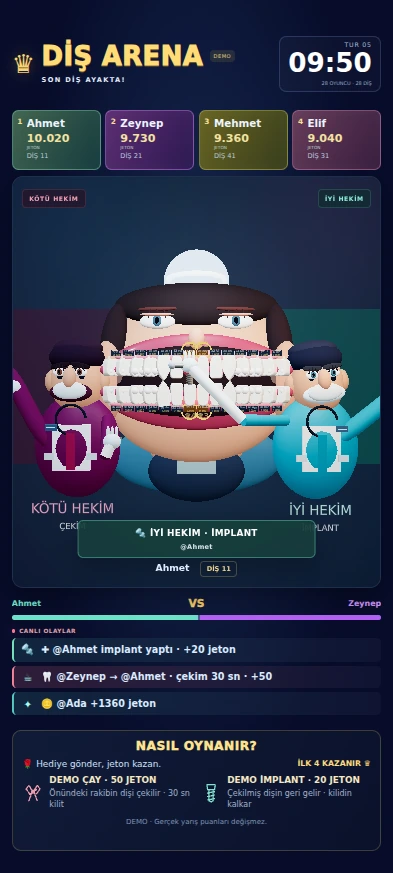
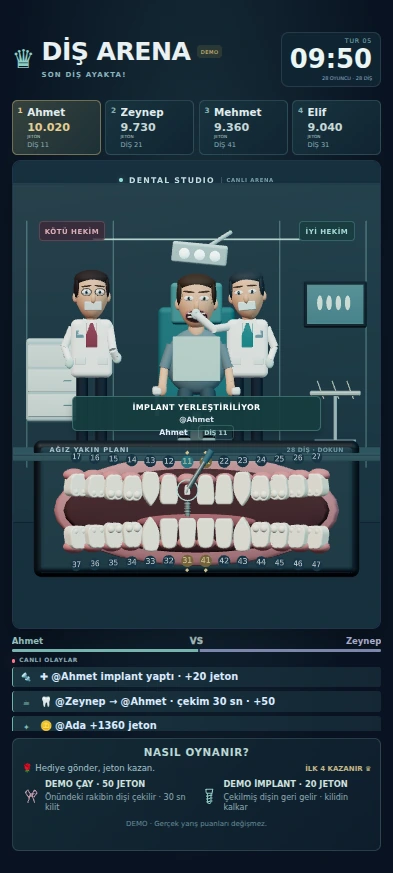
Save the redesigned clinic screenshots and visual acceptance evidence

diff --git a/docs/ACCEPTANCE.md b/docs/ACCEPTANCE.md
@@ -10,7 +10,7 @@
 - Node tek otoritedir. SQLite transaction olay, seri ilerlemesi ve tur durumunu birlikte saklar; tarayıcı render'ı puan yazamaz. Kalıcı idempotency 10.000 sınırıyla kırpılmaz. Canlı/demo veritabanları ayrıdır.
 - Python kalıcı outbox ve ACK/retry, kullanıcı adı kontrolü, sağlayıcı kimliklerinin korunması, katalog aktarımı ve backoff/jitter korunmuştur. Eksik katalog/seri kimliğinde puan uydurulmaz. Gerçek katalogdaki eşleştirilmiş ad izleyicide gösterilir; doğrulanmayan eşleme açıkça bekleniyor görünür.
 - Üst dört lider, gerçek FDI diş numaraları, sayaç/tur, lider değişimi, rekabet ve üç satırlık canlı olay akışı vardır. Sağdaki boş sıralama paneli kaldırıldı. OBS üst/alt TikTok güvenli alanları CSS değişkenleriyle ayarlanır.
-- Aynı prosedürel 3D sahnede dört ayrı taç geometrisi, daha büyük hekimler, küçültülmüş kafa, düzeltilmiş burun/yüz, ağız dışına taşınmış FDI etiketleri; eklemli kol, hedefe uzanan alet, diş çekimi/boşluk, implant vidası/restorasyon ve yüz tepkileri vardır. Puanlar anlık, görseller ayrı sınırlı kuyruktadır; taşma puanı silmez.
+- Reddedilen maskot görünümü yeni klinik dioramasıyla değiştirildi: normal oranlı hasta/koltuk, ayakta iki hekim, ekipman ve optik ağız yakın planı. Aynı 28 diş durumu ve hedef hem hastanın ağzında hem büyütülmüş görünümde kullanılır. Eklemli kol, çekim/boşluk, implant/restorasyon ve yüz tepkileri korunur; dişe dokununca oyuncu kartı açılır. Puanlar anlık, görseller ayrı sınırlı kuyruktadır; taşma puanı silmez.
 - Native tam ekran ve panele dönüş aynı round ID, başlangıç zamanı ve oyuncuları korur. Grafik tercihi ayrı demo/canlı kaynakta sunucuda tutulur.
 - Termux tek komut başlatıcı mevcut veriyi korur; demo Python olmadan açılır. Konsol yoğun hediyeleri gruplar. Yedekleme `access.sqlite` şifre özetlerini de kapsar.
 
@@ -18,26 +18,26 @@
 
 | Kontrol | Gerçek sonuç |
 |---|---|
-| `npm test` | 63 geçti; motor, seri, SQLite yeniden açma/idempotency, eşzamanlı HTTP, auth, yetki ayrımı, demo/launcher ve geometri matematiği |
+| `npm test` | 64 geçti; motor, seri, SQLite yeniden açma/idempotency, eşzamanlı HTTP, auth, yetki ayrımı, demo/launcher ve geometri matematiği |
 | `npm run test:python` | TikTokLive 7.0.1 bağımlılıklarıyla 10 geçti |
 | `npm run test:provider` | 1 geçti; gerçek protobuf sınıfıyla sentetik 1000 seri artışı → Python → SQLite =1000; replay +0 |
 | `npm run build` | TypeScript/Vite geçti; yaklaşık 1,27 MB JS paket boyutu uyarısı sürüyor |
-| Chromium Playwright | Son uygulama kaynağı `70c13d4` üzerinde 6 kabul testi geçti |
+| Chromium Playwright | Son uygulama kaynağı `81bcea2` üzerinde 6 kabul testi geçti |
 | `git diff --check` | Temiz |
 
 Gerçek GitHub Actions Chromium/SwiftShader testleri: 360×800, 393×873, 1080×1920 OBS, 1280×1000 masaüstü; WebGL FPS>0, tarayıcı hatası olmaması ve taşma kontrolü; şifreli mobil yönetim/çıkış; çekim→implant→demo çürütme→iyileştirme; tam ekran gir/çık sırasında turun korunması; oda şifresinin admin yetkisi vermemesi. Her prosedürde hedef Ahmet / FDI 11 kontrol edilip 3D işlem sırasında ekran görüntüsü alınır.
 
-`70c13d441376b1ebec4fd6376f8f03548f2b1b64` üzerinde üç iş akışı başarılı:
+`81bcea2f10a52fb8b12def90763172464d8f531d` üzerinde üç iş akışı başarılı:
 
-- [Diş Arena CI](https://github.com/dentalaidestek/dis-arena-live-/actions/runs/43736281416)
-- [Verify Diş Arena](https://github.com/dentalaidestek/dis-arena-live-/actions/runs/43736281524)
-- [Arena visual acceptance](https://github.com/dentalaidestek/dis-arena-live-/actions/runs/43736281393)
+- [Diş Arena CI](https://github.com/dentalaidestek/dis-arena-live-/actions/runs/43740889063)
+- [Verify Diş Arena](https://github.com/dentalaidestek/dis-arena-live-/actions/runs/43740889040)
+- [Arena visual acceptance](https://github.com/dentalaidestek/dis-arena-live-/actions/runs/43740889022)
 
-Son tarayıcı testi Gül ×1000, +100 hediye, dört dondurulan kazanan ve temiz yeni turu da doğrular. PNG asılları artifact `14170930160` içinde, kalıcı WebP kopyaları [screenshots](screenshots/) altında ve [teslim kaydında](DELIVERY.md) bulunur. Bu gerçek tarayıcı doğrulamasıdır; mobil emülasyonu gerçek Android GPU testi değildir. Görseller açılarak incelendi; gözlerin ağız arkasında kalması ve acı ifadesinde kaşın yerinden çıkması düzeltilip yeniden yakalandı.
+Son tarayıcı testi Gül ×1000, +100 hediye, dört dondurulan kazanan ve temiz yeni turu da doğrular. PNG asılları artifact `14172650178` içinde, kalıcı WebP kopyaları [screenshots](screenshots/) altında ve [teslim kaydında](DELIVERY.md) bulunur. Bu gerçek tarayıcı doğrulamasıdır; mobil emülasyonu gerçek Android GPU testi değildir. Görseller açılarak incelendi. Son tarayıcı testi büyütülmüş görünümde 17 numaralı dişe gerçek tıklamayı ve oyuncu kartını da doğrular. [Görsel yenileme kaydı](VISUAL_REDESIGN.md).
 
 ## Eski testlerin durumu
 
-`npm run test:legacy` ile önce tüm eski testler de çalıştırıldı. Son geniş test: **98 testten 76 geçti, 22 başarısız**. Başlangıç commit'i temiz bir geçici dizine çıkartılıp aynı komut tekrar çalıştırıldı: **82 testten 22'si başlangıçta da başarısızdı**. Güncel testler eklenmeden önceki sonuçla hata isimleri aynıdır; eski akış hataları düzeltilmiş gibi gösterilmedi. Aktif uygulama bu HP/sahiplenme modüllerini çağırmaz.
+`npm run test:legacy` ile önce tüm eski testler de çalıştırıldı. Önceki kaynakta ölçülen geniş test: **98 testten 76 geçti, 22 başarısız**. Başlangıç commit'i temiz bir geçici dizine çıkartılıp aynı komut tekrar çalıştırıldı: **82 testten 22'si başlangıçta da başarısızdı**. Güncel testler eklenmeden önceki sonuçla hata isimleri aynıdır; eski akış hataları düzeltilmiş gibi gösterilmedi. Aktif uygulama bu HP/sahiplenme modüllerini çağırmaz.
 
 Başarısız eski testler:
 
@@ -55,7 +55,7 @@ Başarısız eski testler:
 
 1. Gerçek yayıncı adı verilmedi: aktif TikTok LIVE oda çözümleme/gerçek hediye teslimatı/gerçek katalog ID seçimi yapılmadı. Panelden 50 ve 20 jetonluk doğrulanmış iki farklı gerçek hediye eşleştirilmeli. Üçüncü taraf TikTokLive sıfır veri kaybı garantisi vermez.
 2. Yeni sürüm kullanıcı telefonunda Android + Termux ile henüz denenmedi. Önceki çalışan kurulum korunmuştur; Node SQLite ve Python 3.14 bağımlılık uyumu cihazda doğrulanmalı. Uzun süreli canlı + OBS yayın testi yapılmadı.
-3. Karakterler hâlâ prosedürel/stilize Three.js modelleridir; profesyonel sanatçı yapımı rigged karakter kalitesi iddia edilmez. 28 oyuncunun tam adı mobil ağız üzerinde okunamaz: kısa etiket + FDI kullanılır, ilk dört ve yönetim tablosu tam adları gösterir.
+3. Karakterler hâlâ prosedürel/stilize Three.js modelleridir; profesyonel sanatçı yapımı rigged karakter kalitesi iddia edilmez. 28 oyuncunun tam adı dişlerin üzerine yığılmaz: FDI numarası kullanılır; seçilen dişin kartı, ilk dört ve yönetim tablosu tam adları gösterir.
 4. Docker imajı/çok sunuculu dağıtım doğrulanmadı. JS paket boyutu uyarısı ve TikTokLive websockets legacy deprecation uyarısı sürüyor. Aktif motor testleri geçse de yukarıdaki 22 eski HP testi başarısızdır.
 5. Animasyon kuyruğu sınırlıdır; yoğun trafik ve yeniden bağlantı kaçırılan görselleri özetleyebilir, kalıcı puanı ve olay kaydını değiştirmez. Eski uygulamanın daha önce silmiş olduğu olay kimlikleri kurtarılamaz.
 

diff --git a/docs/DELIVERY.md b/docs/DELIVERY.md
@@ -1,6 +1,6 @@
 # Diş Arena — yayın görünümü teslim kaydı
 
-15 Kasım 2026. Uygulama kaynağı: `70c13d441376b1ebec4fd6376f8f03548f2b1b64`. Mevcut geliştirme dalı ve taslak [PR #1](https://github.com/dentalaidestek/dis-arena-live-/pull/1) güncellendi. Main birleştirilmedi; production dağıtımı yapılmadı.
+15 Kasım 2026. Uygulama kaynağı: `81bcea2f10a52fb8b12def90763172464d8f531d`. Mevcut geliştirme dalı ve taslak [PR #1](https://github.com/dentalaidestek/dis-arena-live-/pull/1) güncellendi. Main birleştirilmedi; production dağıtımı yapılmadı.
 
 ## Sayfalar ve akış
 
@@ -18,29 +18,31 @@
 
 Canlı oyun: **Çay 50 → 30 saniye çekim kilidi**, **Parfüm 20 → implant ve kilidi kaldırma**. Çürütme/iyileştirme yalnız ayrı demodadır. Gerçek katalog ID'si uydurulmadı; eşleme panelden doğrulanmalıdır. Kümülatif seri farkı kalıcı SQLite kaydıyla hesaplanır.
 
-Mevcut Three.js sahnesi korunmuştur. Dört taç formu, daha büyük iki hekim, daha dengeli hasta kafası, FDI/kısa isim plakaları, omuz-dirsek-bilek zinciri, hedef dişe uzanan alet, çekim/boşluk ve implant vidası/restorasyon geliştirilmiştir. Hasta acı/mutluluk geçişleri ve dört demo animasyonu gerçek WebGL sahnesinde oynar. İşlem hedefi sabit kalır; yeni tur önceki turun görsellerini reddeder. Karakterler stilize ve prosedüreldir; sanatçı üretimi rigged karakter kalitesi iddia edilmez.
+Son görsel geri bildirim üzerine klinik dioraması yeniden kuruldu. Hasta normal oranlarla koltukta oturur; iki hekim önlük/pantolon/ayakkabı ve eklemli kollarla ayakta durur. Muayene lambası, dolap, ekran ve alet sehpası vardır. Büyük ağız yakın planı hastanın gerçek küçük ağız modeliyle aynı 28 dişi ve aynı işlem hedefini gösterir. FDI numarasına dokununca oyuncu ve jetonu okunabilir kartta açılır. Lacivert, porselen beyazı, muted pembe ve turkuaz kullanılır. İşlem kuyruğu ve hedef sabitleme korunur. [Yeni görsel tasarım ve önce/sonra](VISUAL_REDESIGN.md).
+
+Karakterler hâlâ stilize, prosedürel Three.js modelleridir; sanatçı üretimi rigged karakter paketi iddiası yoktur.
 
 ## Test kanıtı
 
 | Kontrol | Sonuç |
 |---|---|
-| Güncel motor/sunucu testleri | 63 geçti |
+| Güncel motor/sunucu testleri | 64 geçti |
 | Python köprü/yedek testleri | 10 geçti |
 | Sağlayıcı protobuf → Python → SQLite | 1 geçti; sentetik ×1000 =1000, tekrar +0 |
 | Üretim build | Geçti |
 | `bash termux-preview.sh --check` | Geçti (Linux geliştirme ortamında) |
-| Eski HP modülleri dahil geniş test | 98 test: 76 geçti, başlangıçta da var olan 22 başarısızlık sürüyor |
+| Önceki kaynakta eski HP modülleri dahil geniş test | 98 test: 76 geçti, başlangıçta da var olan 22 başarısızlık sürüyor |
 | Disk SQLite fixture ölçümü | 10.000 paket / 28 kullanıcı: 1576 ms; 6344 paket/sn; p95 0,353 ms |
 
 Performans ölçümü yalnız bu ortamda doğrudan store çağrısıdır; TikTok/ağ/OBS/Android kapasite garantisi değildir. JS ~1,27 MB paket uyarısı ve sağlayıcı deprecation uyarısı sürüyor.
 
 Tarayıcı kabul kapsamı: 360×800 ve 393×873 mobil emülasyonu, 1080×1920 OBS, masaüstü; gerçek WebGL render/FPS ve taşma; yayıncı girişi/çıkışı; hedef Ahmet/FDI11 üzerinde çekim→implant→çürütme→iyileştirme; native tam ekran/turun korunması; oda/admin yetki ayrımı; Gül1000 +100 hediye, dondurulan dört kazanan, temiz yeni tur. Üç CI iş akışı uygulama kaynağında başarılı:
 
-- [Diş Arena CI](https://github.com/dentalaidestek/dis-arena-live-/actions/runs/43736281416)
-- [Verify Diş Arena](https://github.com/dentalaidestek/dis-arena-live-/actions/runs/43736281524)
-- [6 tarayıcı kabul testi](https://github.com/dentalaidestek/dis-arena-live-/actions/runs/43736281393)
+- [Diş Arena CI](https://github.com/dentalaidestek/dis-arena-live-/actions/runs/43740889063)
+- [Verify Diş Arena](https://github.com/dentalaidestek/dis-arena-live-/actions/runs/43740889040)
+- [6 tarayıcı kabul testi](https://github.com/dentalaidestek/dis-arena-live-/actions/runs/43740889022)
 
[2 lines of base64/hex data omitted]
 
 ## Ekran görüntüleri
 
@@ -139,3 +141,8 @@ Başlangıç `152578e` ile uygulama kaynağı arasındaki dosyalar; ekran kanıt
 - `termux-preview.sh`
 - `tsconfig.json`
 - `vite.config.ts`
+
+- Yeni görsel bileşen: `src/ClinicActors.tsx`
+- Yeni yayın stili: `src/clinic.css`
+- Dişe dokunma görüntüsü: [tooth-inspector.webp](screenshots/tooth-inspector.webp)
+- Önce/sonra: [comparison.webp](screenshots/comparison.webp)

diff --git a/docs/VISUAL_REDESIGN.md b/docs/VISUAL_REDESIGN.md
@@ -1,0 +1,44 @@
+# Diş Arena — klinik görünümü
+
+15 Kasım 2026 · uygulama kaynağı `81bcea2f10a52fb8b12def90763172464d8f531d` · mevcut PR #1.
+
+Kullanıcı önceki görünümü yetersiz buldu. Görsel katman yeniden kuruldu; motor, hediye kuralları, yetki ve kayıt mimarisi değişmedi.
+
+## Yeni sahne
+
+- Koltukta normal oranlı hasta; gövde, önlük ve pantolonlarıyla ayakta iki hekim.
+- Çalışan eklemli kol ve hastanın gerçek ağız hedefine yaklaşma.
+- Büyütülmüş ağız yakın planında aynı 28 diş, aynı çekim/implant olayı ve aynı hedef.
+- İsim/puan levhalarının yerine FDI numarası; dişe dokununca ayrı oyuncu kartı.
+- Muayene lambası, dolaplar, alet sehpası ve klinik arka planı.
+- Daha sakin lacivert/porselen/turkuaz yayın paleti; altın vurgusu ilk dörtte.
+
+![Önce ve yeni görünüm](screenshots/comparison.webp)
+
+[393×873 mobil](screenshots/mobile.webp) · [360×800 mobil](screenshots/mobile-360.webp) · [1080×1920 OBS](screenshots/obs.webp) · [Çekim](screenshots/extract.webp) · [İmplant](screenshots/implant.webp) · [Dişe dokunma](screenshots/tooth-inspector.webp)
+
+Bunlar gerçek Chromium WebGL ekran yakalamalarıdır; üretim görseli veya video değildir. PNG asılları Actions artifact `14172650178`, WebP kopyaları bu depodadır. Önce/sonra yalnız iki gerçek yakalamanın yan yana yerleştirilmesidir.
+
+## Doğrulama
+
+64 güncel motor/sunucu/koordinat testi ve üretim build geçti. 6 gerçek Chromium kabul testi; 360×800, 393×873, 1080×1920 ve masaüstü render, taşma, tam ekran, şifre/rol ayrımı ve dört demo işlemi geçti. 17 numaralı dişe gerçek tıklama doğru oyuncu kartını açtı. Hasta ve yakın planın dünya koordinatı dönüşümleri ayrıca test edilir.
+
+Üç iş akışı başarılı:
+
+- [Diş Arena CI](https://github.com/dentalaidestek/dis-arena-live-/actions/runs/43740889063)
+- [Verify Diş Arena](https://github.com/dentalaidestek/dis-arena-live-/actions/runs/43740889040)
+- [Tarayıcı kabul](https://github.com/dentalaidestek/dis-arena-live-/actions/runs/43740889022)
+
+Karakterler hâlâ prosedürel/stilizedir; yüksek bütçeli sanatçı karakterleri olarak sunulmaz. Gerçek Android GPU/Termux ve aktif TikTok LIVE kabulü yapılmadı; önceki [açık kabul işleri](ACCEPTANCE.md) sürüyor. Main merge veya production dağıtımı yok.
+
+## Telefonda güncelle
+
+Sunucu açıksa Ctrl+C ile durdurun:
+
+```sh
+cd ~/dis-arena-live-
+git pull --ff-only
+bash termux-preview.sh
+```
+
+Yayıncı panelinden oyun ekranını açın veya `/demo` adresine gidin. İlgili dişe dokunarak oyuncu kartını açabilirsiniz.

diff --git a/README.md b/README.md
@@ -1,6 +1,6 @@
 # Diş Arena — 28 diş, iki hekim, 10 dakika
 
-Mevcut `feature/coin-arena-20261112` çalışmasının devamıdır. Güncel davranışlar [oyun kurallarında](docs/GAME_RULES.md), doğrulama ve yayın engelleri [kabul raporunda](docs/ACCEPTANCE.md) bulunur. Eski HP/32 diş modülleri ana ekranda kullanılmaz. Güncel ekran görüntüleri, değişen dosyalar ve CI kanıtları [teslim kaydındadır](docs/DELIVERY.md).
+Mevcut `feature/coin-arena-20261112` çalışmasının devamıdır. Güncel davranışlar [oyun kurallarında](docs/GAME_RULES.md), doğrulama ve yayın engelleri [kabul raporunda](docs/ACCEPTANCE.md) bulunur. Eski HP/32 diş modülleri ana ekranda kullanılmaz. Yeni klinik dioraması ve gerçek oyun görüntüleri [görsel yenileme kaydında](docs/VISUAL_REDESIGN.md); değişen dosyalar ve CI kanıtları [teslim kaydındadır](docs/DELIVERY.md).
 
 | Canlı işlem | Doğrulanmış birim değer | Etki |
 |---|---:|---|
